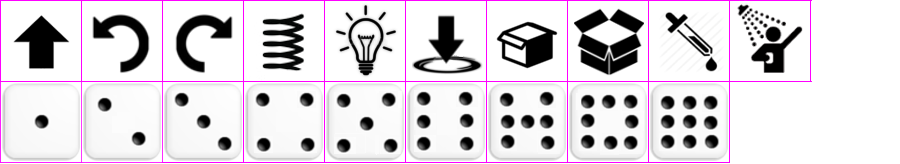
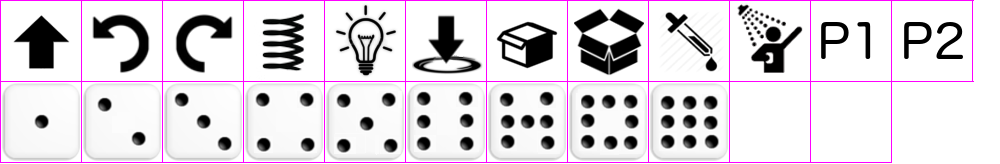
ajoute  p1 p2

diff --git a/src/UI/Gui.java b/src/UI/Gui.java
@@ -87,6 +87,10 @@ public class Gui
 				spr.setTextureRect(new IntRect(730, 1, 80, 80));
 			else if (act instanceof For)
 				spr.setTextureRect(new IntRect(1, 82, 80, 80));
+			else if (act instanceof P1)
+				spr.setTextureRect(new IntRect(811, 1, 80, 80));
+			else if (act instanceof P2)
+				spr.setTextureRect(new IntRect(892, 1, 80, 80));
 
 			spriteList.add(spr);
 		}

diff --git a/src/Prog/NormalActions/P1.java b/src/Prog/NormalActions/P1.java
@@ -1,0 +1,16 @@
+package Prog.NormalActions;
+
+import Entities.Character;
+import Prog.Action;
+import Prog.Color;
+
+public class P1 extends Action{
+
+	@Override
+	public boolean execute(Character p) {
+
+		return false;
+	}
+	public P1(Color c) {couleur = c;}
+
+}

diff --git a/src/Prog/NormalActions/P2.java b/src/Prog/NormalActions/P2.java
@@ -1,0 +1,16 @@
+package Prog.NormalActions;
+
+import Entities.Character;
+import Prog.Action;
+import Prog.Color;
+
+public class P2 extends Action{
+
+	@Override
+	public boolean execute(Character p) {
+
+		return false;
+	}
+	public P2(Color c) {couleur = c;}
+
+}
